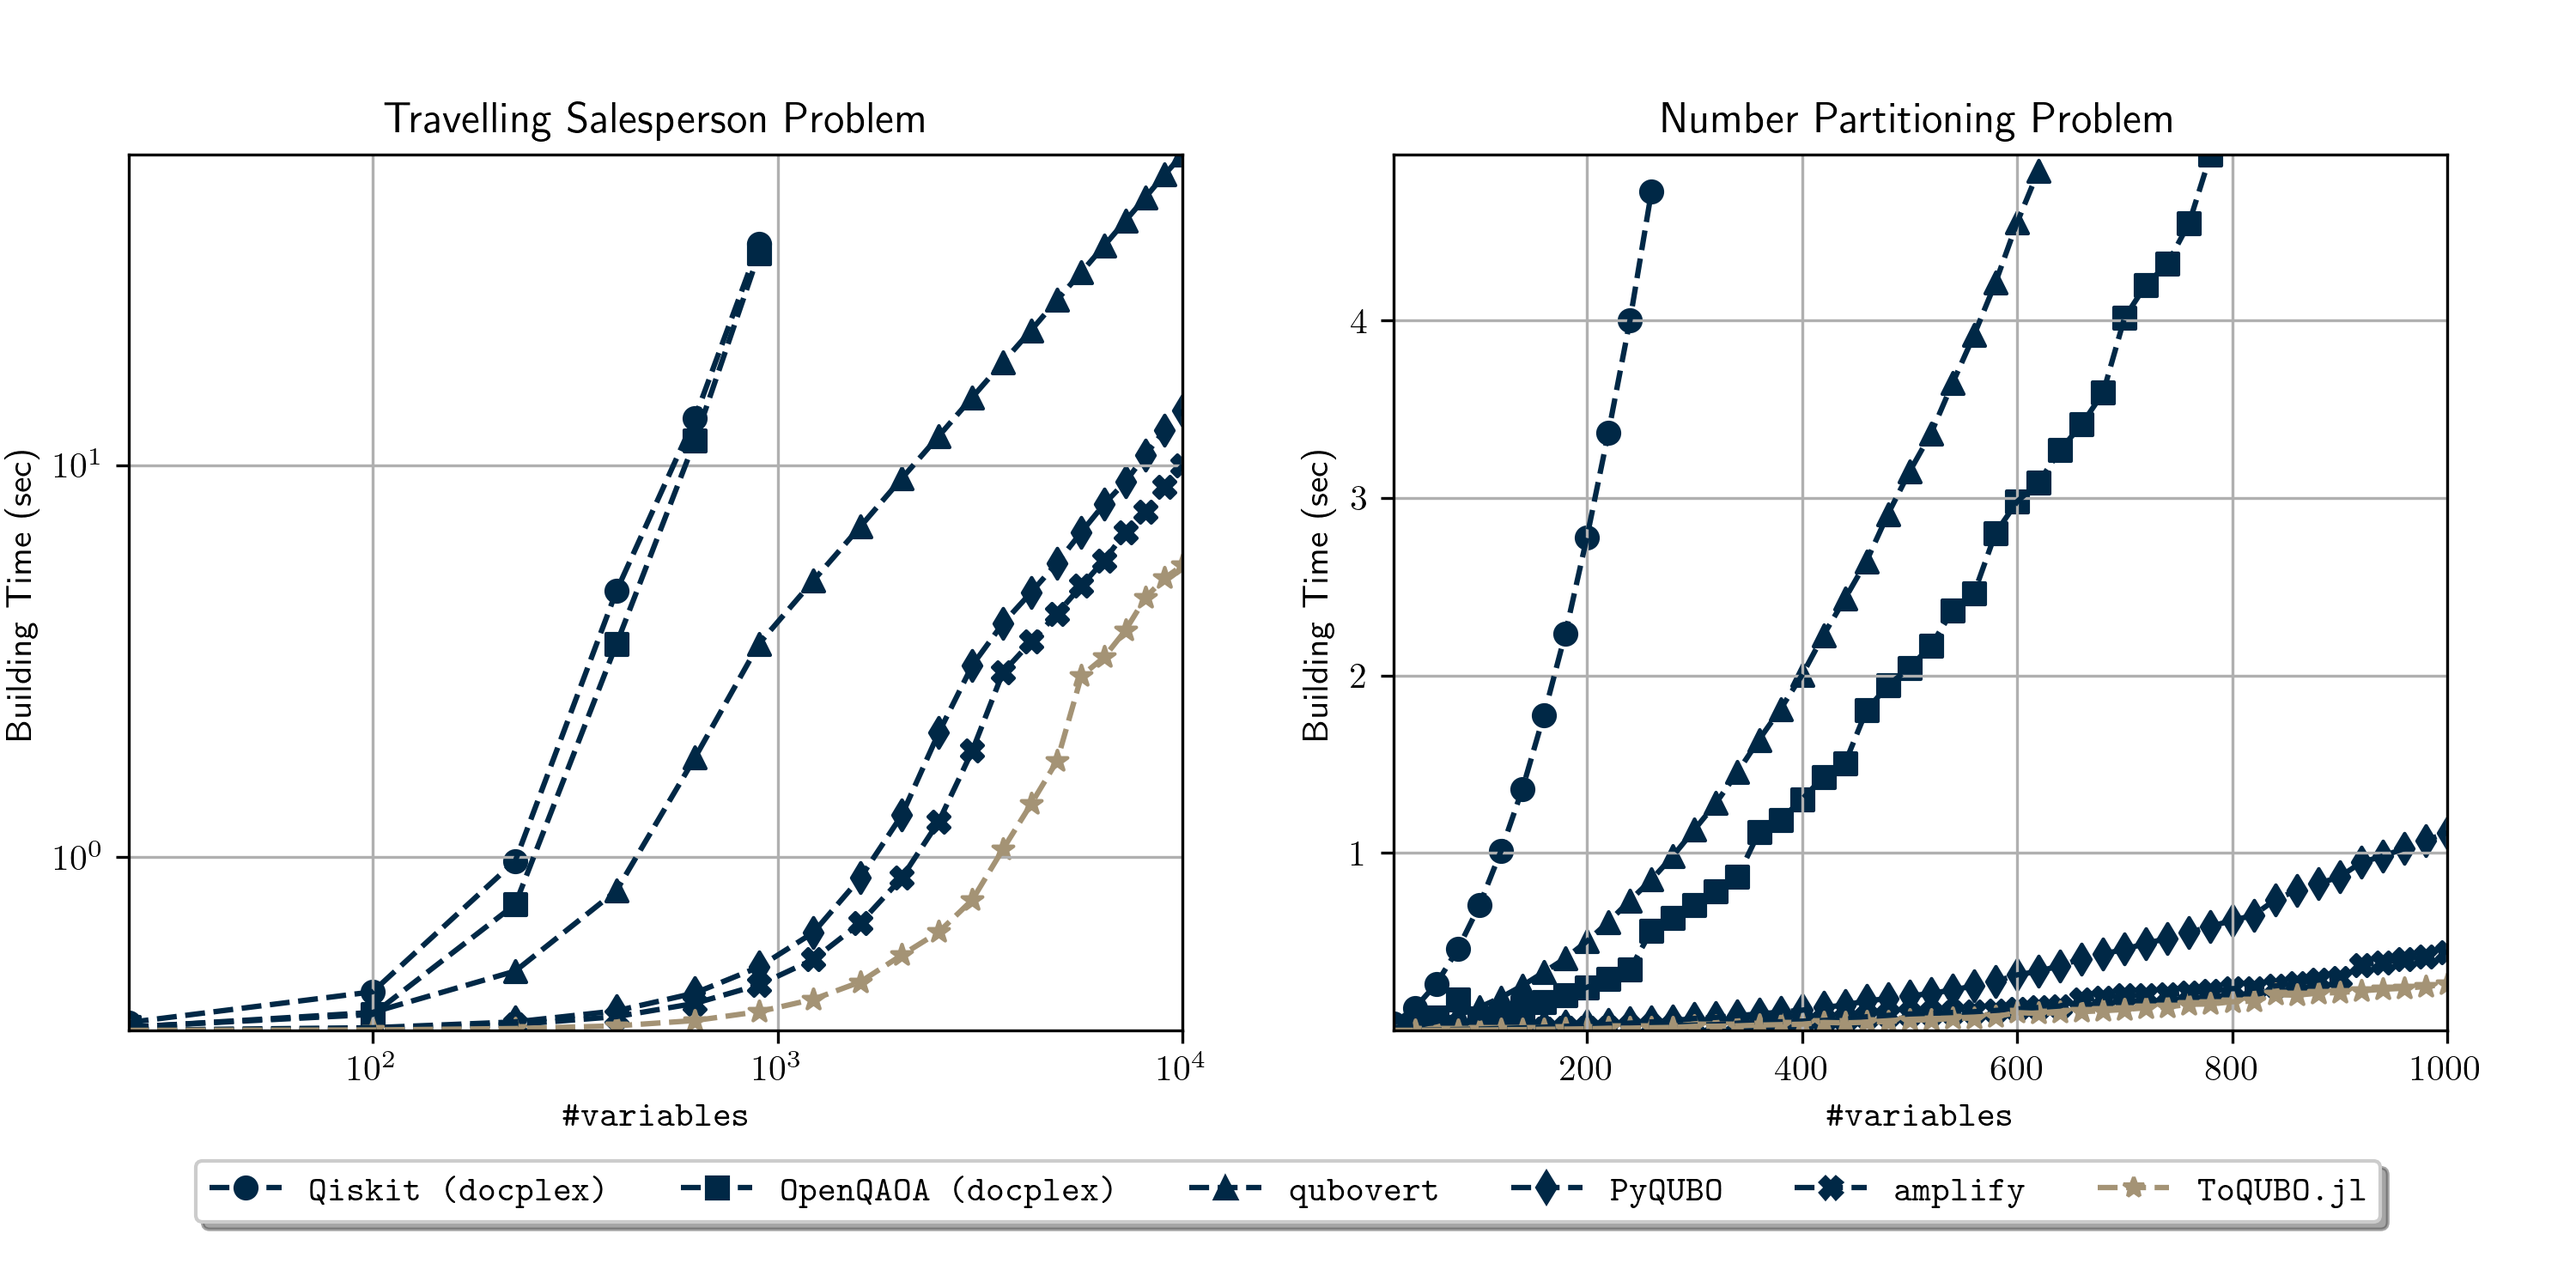
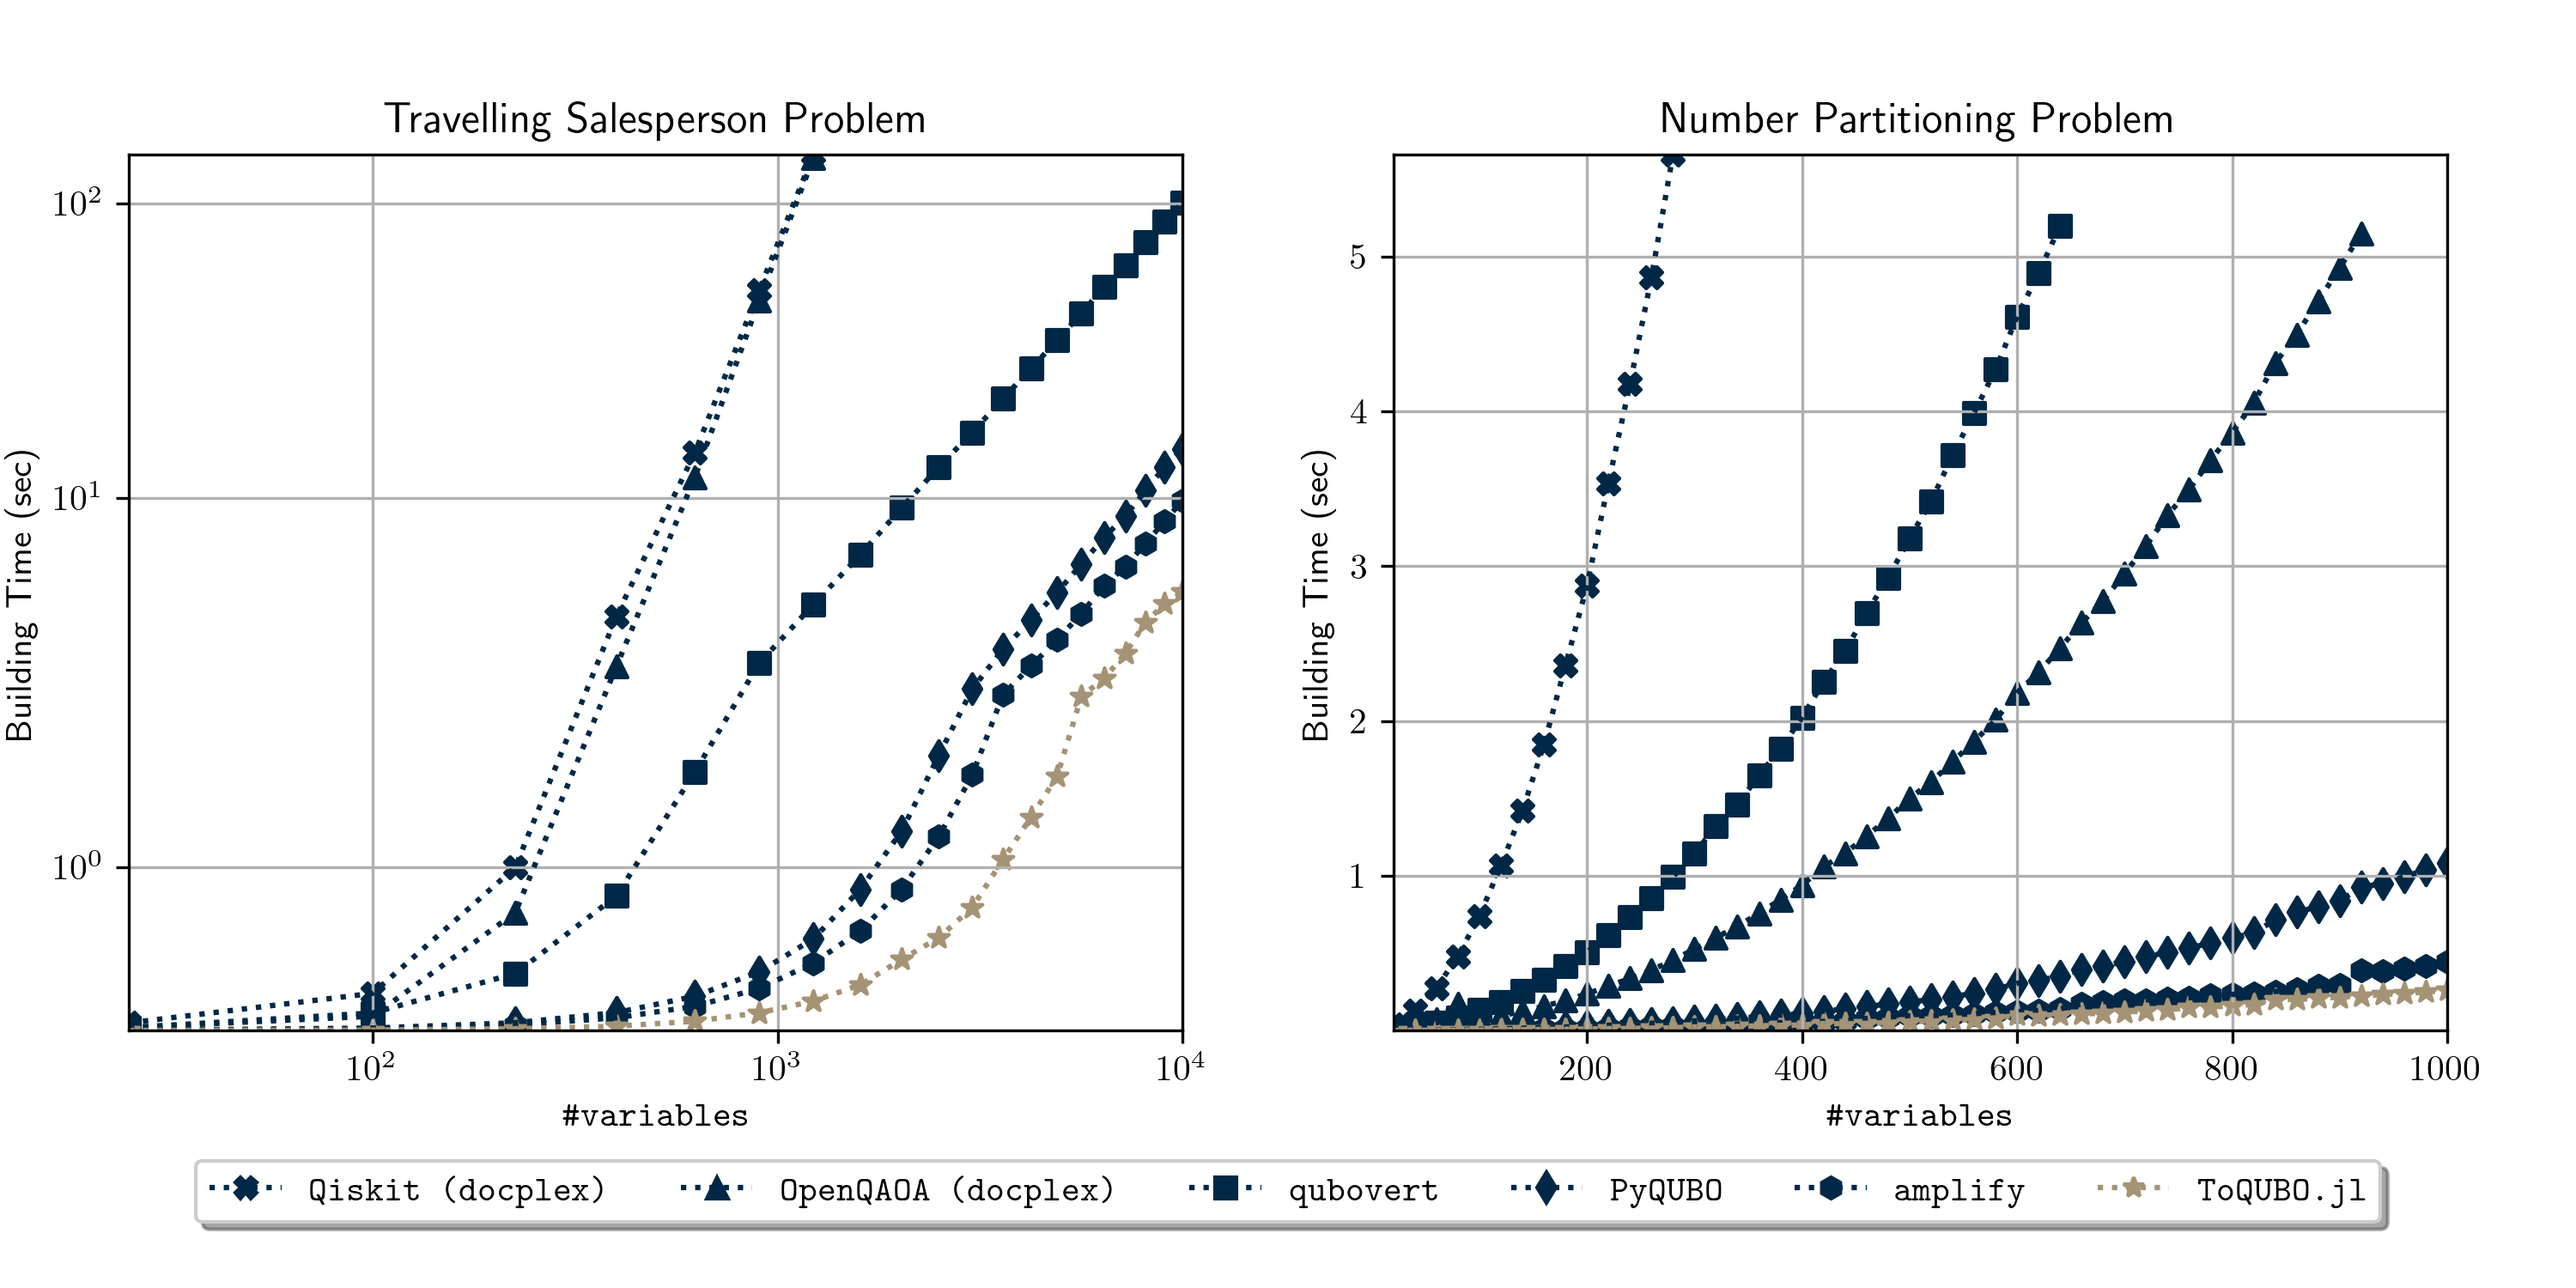
Finish plots

diff --git a/plot/plot.py b/plot/plot.py
@@ -38,9 +38,9 @@ LABEL_REF = {
 }
 MARKER_REF = {
     "toqubo"  : "*",
-    "qiskit"  : "s",
+    "qiskit"  : "X",
     "openqaoa": "^",
-    "qubovert": "v",
+    "qubovert": "s",
     "pyqubo"  : "d",
     "amplify" : "h",
 }
@@ -115,7 +115,7 @@ def plot_benchmark(key: str, ax):
         color  = COLOR_REF.get(tag, "#002846") # PSRBLUE
         marker = MARKER_REF.get(tag)
         label  = LABEL_REF.get(tag)
-        line   = "--"
+        line   = ":"
 
         n = np.array(data[tag]["nvar"], dtype=int)
         t = np.array(data[tag]["time"], dtype=float)
